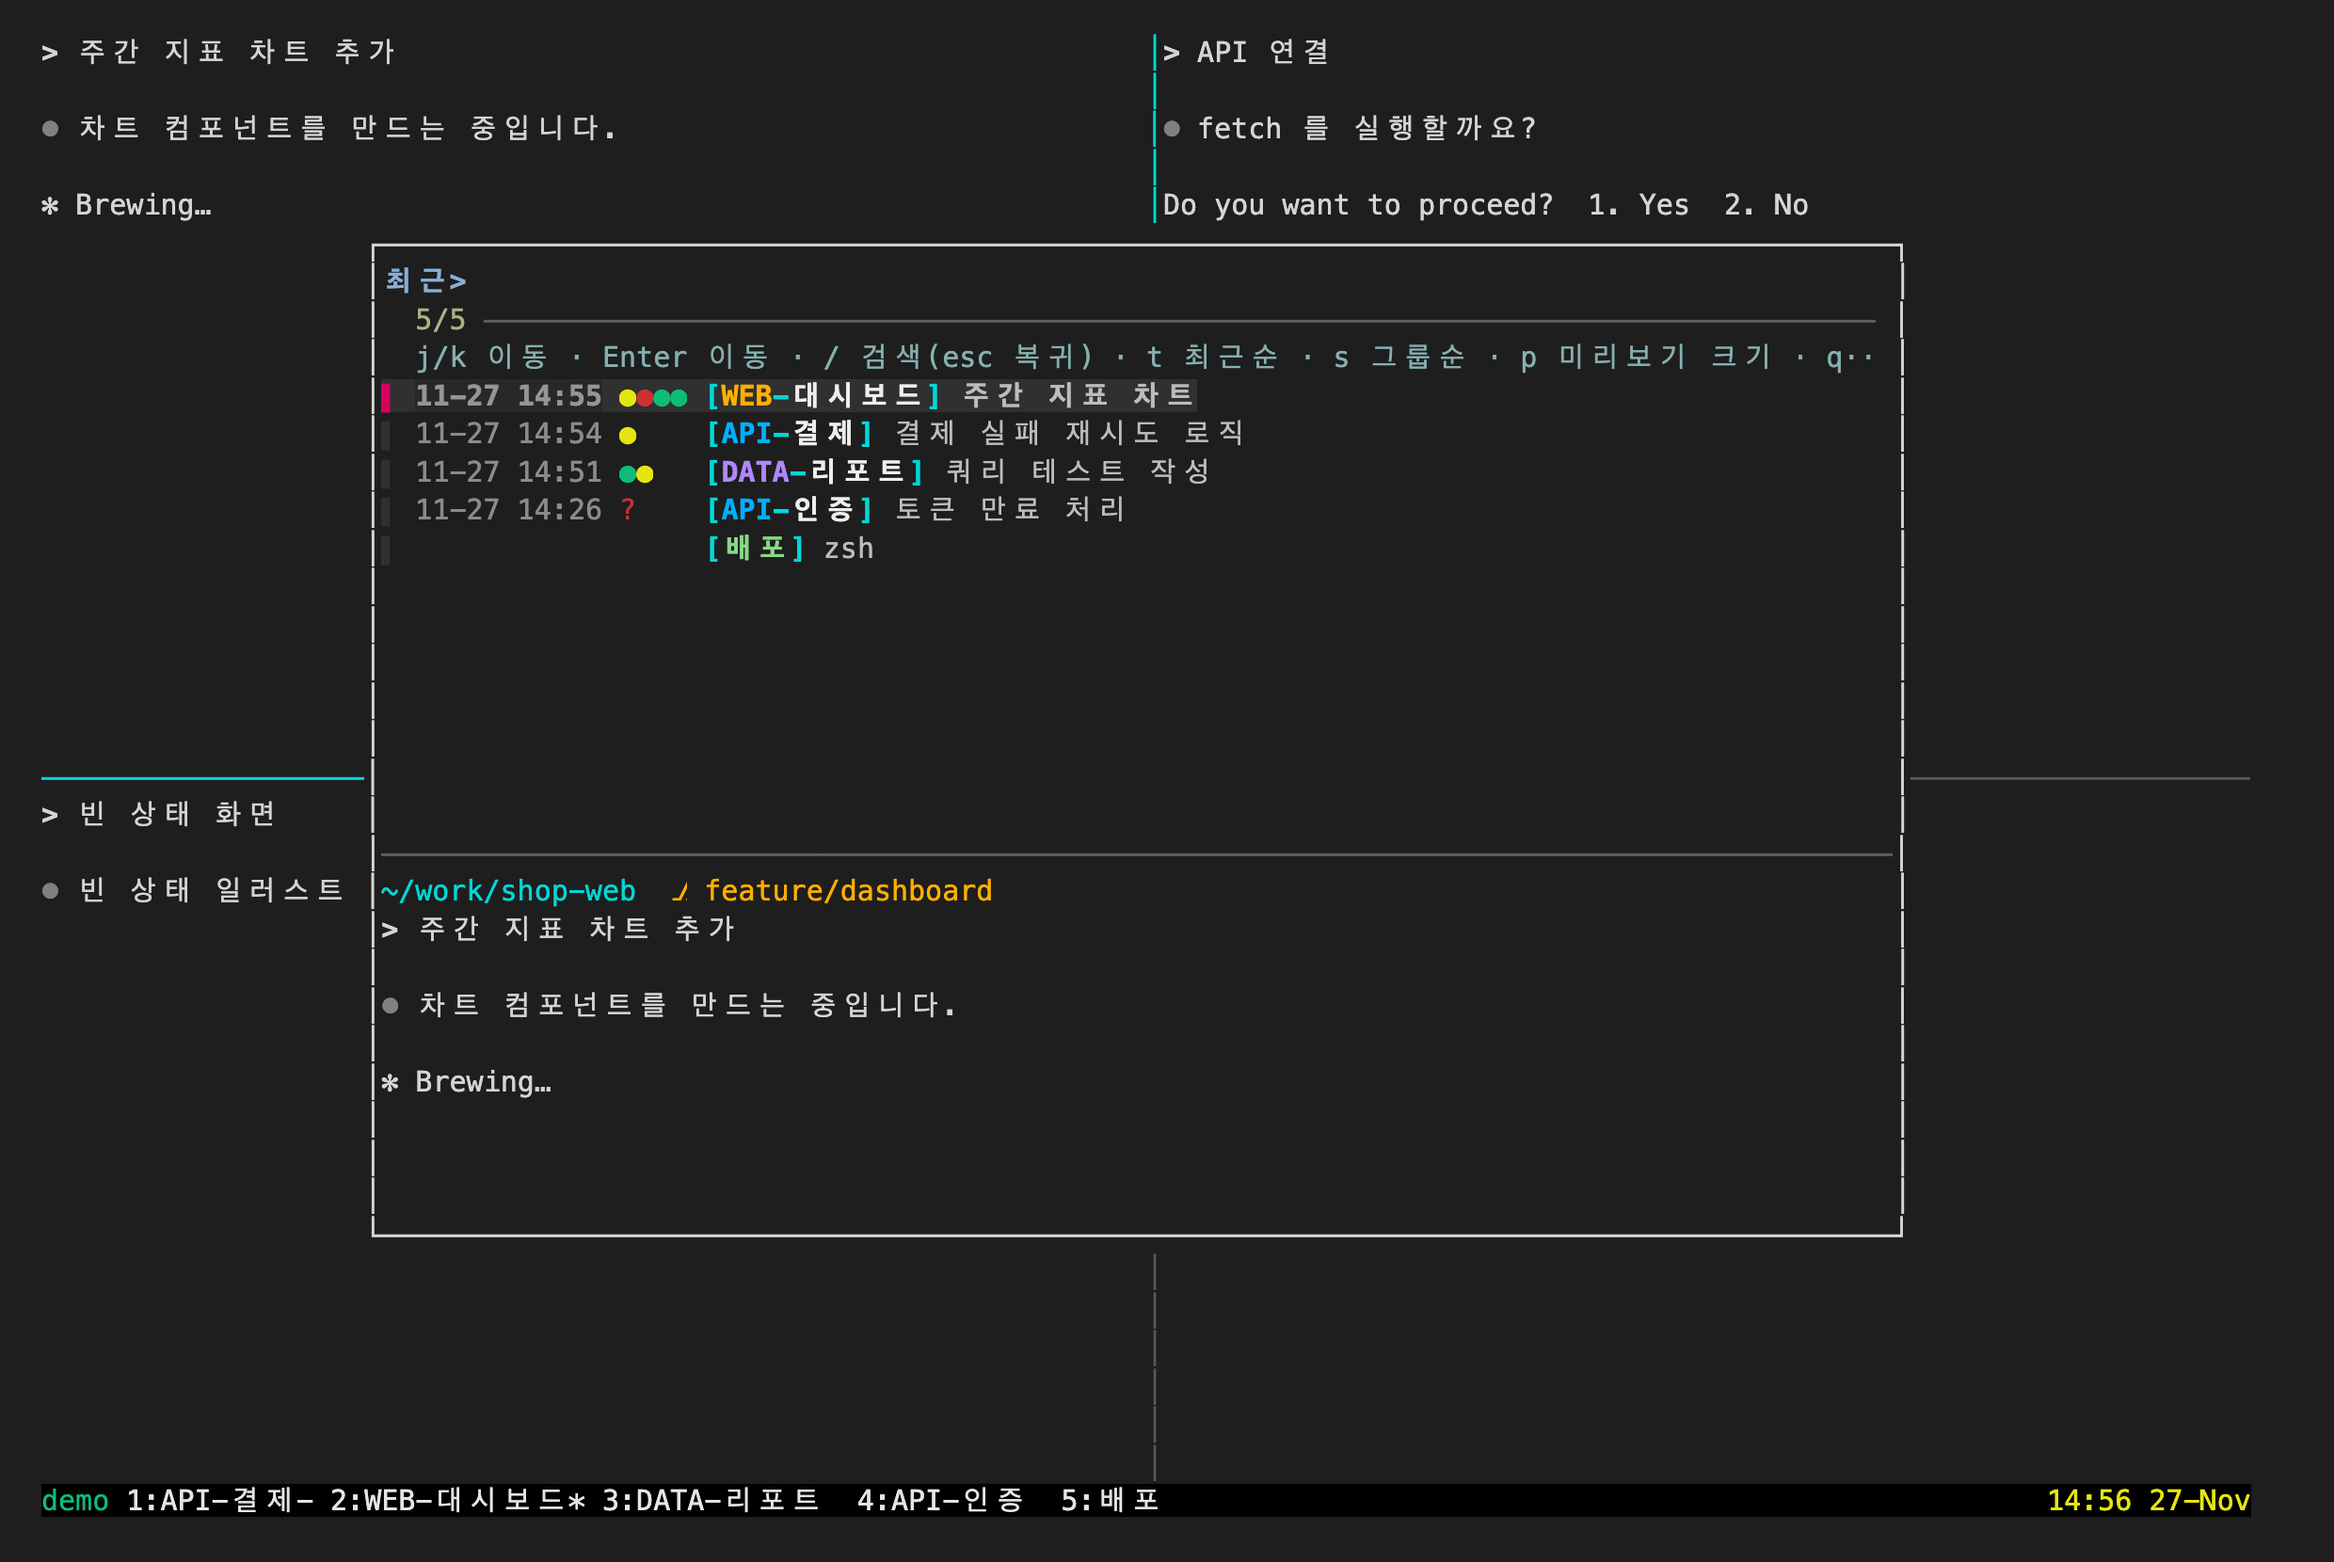
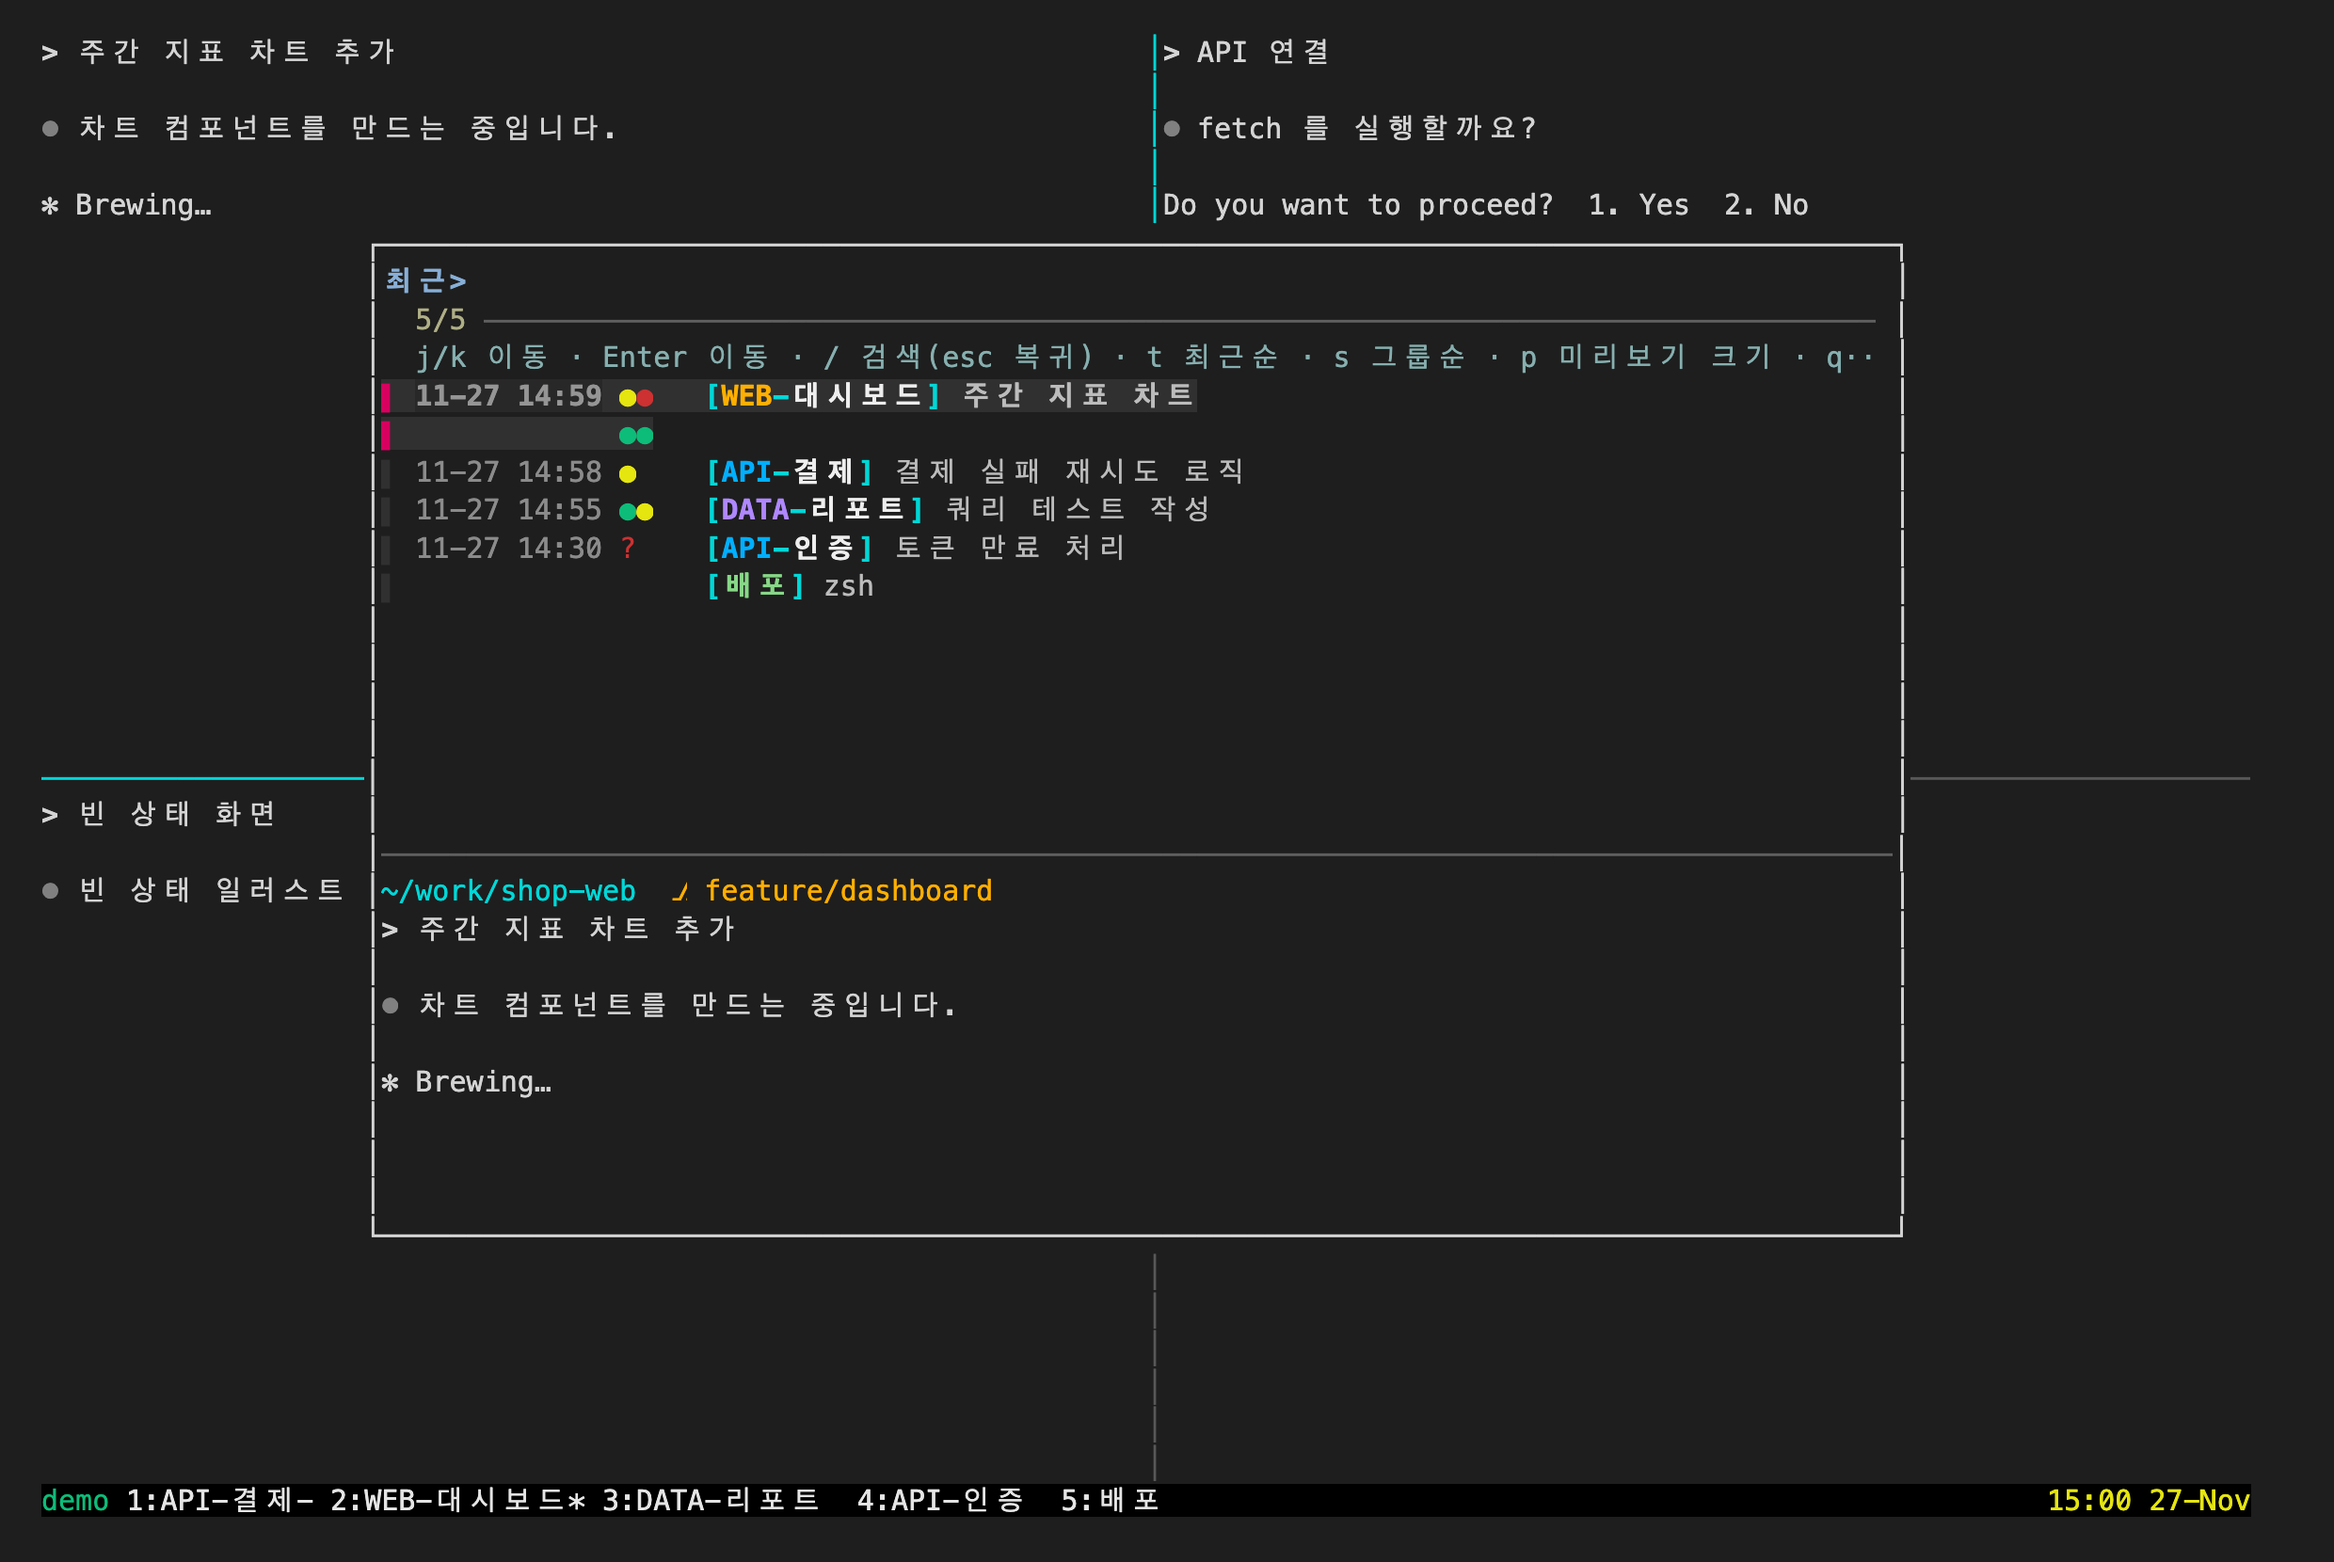
Show 3-4 Claude panes as a 2x2 grid in the fzf list

Changed region(s): [[0.3105, 0.2458, 0.5278, 0.3994], [0.1863, 0.2765, 0.2794, 0.3687], [0.2794, 0.2458, 0.3105, 0.2765]]

diff --git a/README.md b/README.md
@@ -73,11 +73,11 @@ cd tmux-cc-nav && ./install.sh
 | 노랑 `●` | 실행 중. 프롬프트를 보낸 뒤 답이 끝나기 전 |
 | 빨강 `?` | 입력 대기. 권한 확인이나 질문 때문에 멈춤 |
 | 초록 `✓` | 완료. Esc로 중단한 세션도 목록을 열 때 완료로 바로잡힘 |
-| 색 원 2~4개 | 한 창에 Claude가 여럿. pane 화면 위치 순서(왼쪽 위 → 오른쪽 위 → 왼쪽 아래 → 오른쪽 아래)로 노랑 실행중 · 빨강 입력대기 · 초록 완료 |
+| 색 원 2×2 | 한 창에 Claude가 여럿. 원 자리가 pane 자리와 같음(윗줄 왼쪽 위·오른쪽 위, 아랫줄 왼쪽 아래·오른쪽 아래). 노랑 실행중 · 빨강 입력대기 · 초록 완료. `prefix W` 목록은 한 줄로 |
 
-![한 창을 pane 4개로 나눈 경우: 맨 윗줄의 원 4개가 pane 자리 순서대로 실행중·입력대기·완료·완료를 보여 줌](docs/panes.png)
+![한 창을 pane 4개로 나눈 경우: 첫 항목의 원 2×2가 pane 자리 그대로 실행중·입력대기·완료·완료를 보여 줌](docs/panes.png)
 
-한 창을 pane으로 나눠 Claude를 여러 개 띄운 예입니다. 뒤 화면의 `WEB-대시보드` 창은 4칸으로 나뉘어 있고, 목록 첫 줄의 원 4개가 왼쪽 위부터 그 상태를 보여 줍니다. 제목과 미리보기는 그 창에서 가장 최근에 움직인 pane 것입니다.
+한 창을 pane으로 나눠 Claude를 여러 개 띄운 예입니다. 뒤 화면의 `WEB-대시보드` 창은 4칸으로 나뉘어 있고, 목록 첫 항목의 원 2×2가 같은 자리에 그 상태를 보여 줍니다. 제목과 미리보기는 그 창에서 가장 최근에 움직인 pane 것입니다.
 | `[앞-뒤]` | 직접 붙인 tmux 창 이름. `-`나 `_` 앞부분이 같으면 같은 색 |
 
 미리보기의 작업 폴더는 시작 폴더가 아니라 Claude가 지금 작업 중인 폴더입니다. 세션이 워크트리로 옮겨 가면 워크트리 경로와 그 브랜치가 나옵니다.
